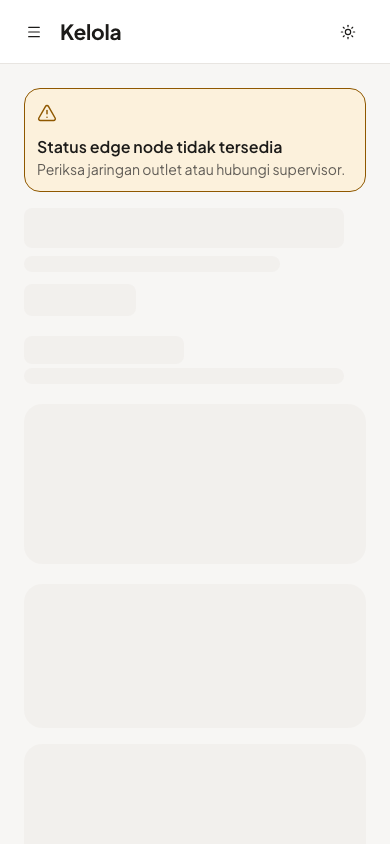
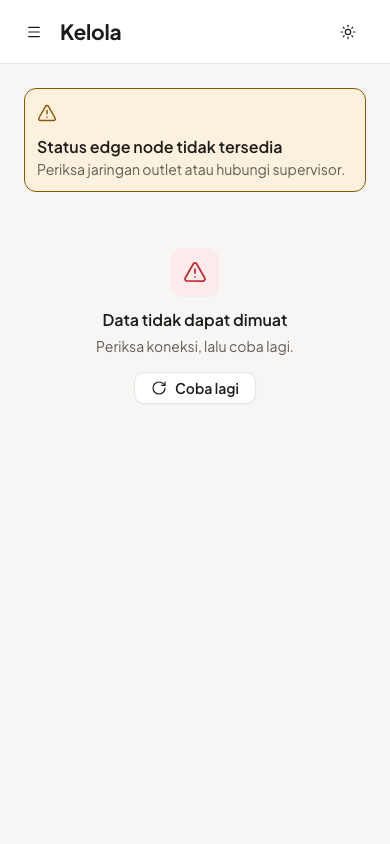
feat(ws11): management home per role on design v3 (legend-6na6)
PRD v1.7 §3.36 Beranda per Role, §3 F1 density, DASH-01/DASH-02.
- /kelola is the management home: role switcher (petrol pill tabs), one
  StatStrip of the role's KPI numbers from the tile's source report run
  (same period/outlets, unsplit total), CardShell queue cards, shared
  approval box (once per role) and report/audit links.
- New shared mock owners lib/mock/handlers/{dashboards,report-runs}.ts so the
  owner/shareholder/management screens (and report viewer) register data, not
  duplicate endpoint handlers (legend-jzud rule).
- Contract fixtures: management layout + seven role KPI report runs; i18n
  managementHome catalog block. DESIGN.md v3: topbar owns the title, canvas,
  CardShell/StatStrip, no body page title.
- Tests: tests/ws11-management-home.test.mjs (F36/DASH-01/DASH-02/F1) and
  e2e/legend-6na6.mock.spec.ts (7 mock specs); screenshots 390/1440
  light/dark + empty/error/offline under docs/design/screenshots/legend-6na6.

diff --git a/e2e/legend-6na6.mock.spec.ts b/e2e/legend-6na6.mock.spec.ts
@@ -2,7 +2,7 @@
 // "Beranda per Role", DASH-01/DASH-02). Runs against the FE mock runtime: the
 // management layout and each role's KPI report run come from
 // @starter/shared/dashboard fixtures through VITE_API_MOCK=true, no API and no
-// database (docs/frontend.md, "Typed endpoints and mock mode").
+// database (frontend standard, "Typed endpoints and mock mode").
 //
 // How to run: `pnpm test:e2e:mock` starts a VITE_API_MOCK web server and names
 // it in `LEGEND_MOCK_WEB_URL`. With no variable set every test skips, so the
